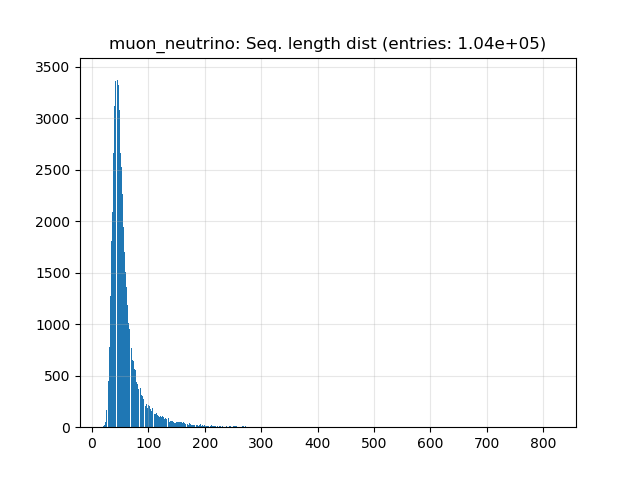
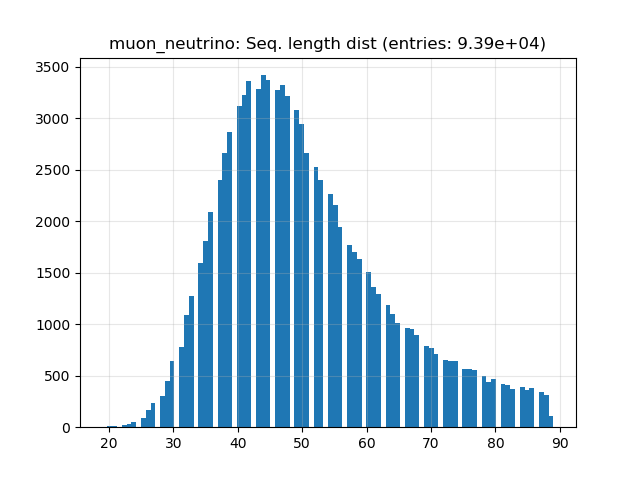
Transfer of plot.

Changed region(s): [[0.125, 0.1562, 0.9062, 0.9375], [0.7188, 0.0625, 0.7812, 0.125], [0.8125, 0.0625, 0.8438, 0.125]]

diff --git a/src/scripts/show_doms_notebook.py b/src/scripts/show_doms_notebook.py
@@ -37,7 +37,7 @@ doms, energy = sort_pairs(tot_n_doms, tot_energy)
 # tot_n_doms = [entry for entry in tot_n_doms if entry<100]
 # %%
 FRAC = 0.1
-from_, to_ = 0.0, 1.0
+from_, to_ = 0.0, 0.9
 end = int(FRAC*len(doms))
 from_i, to_i = int(from_*len(doms)), int(to_*len(doms))
 
